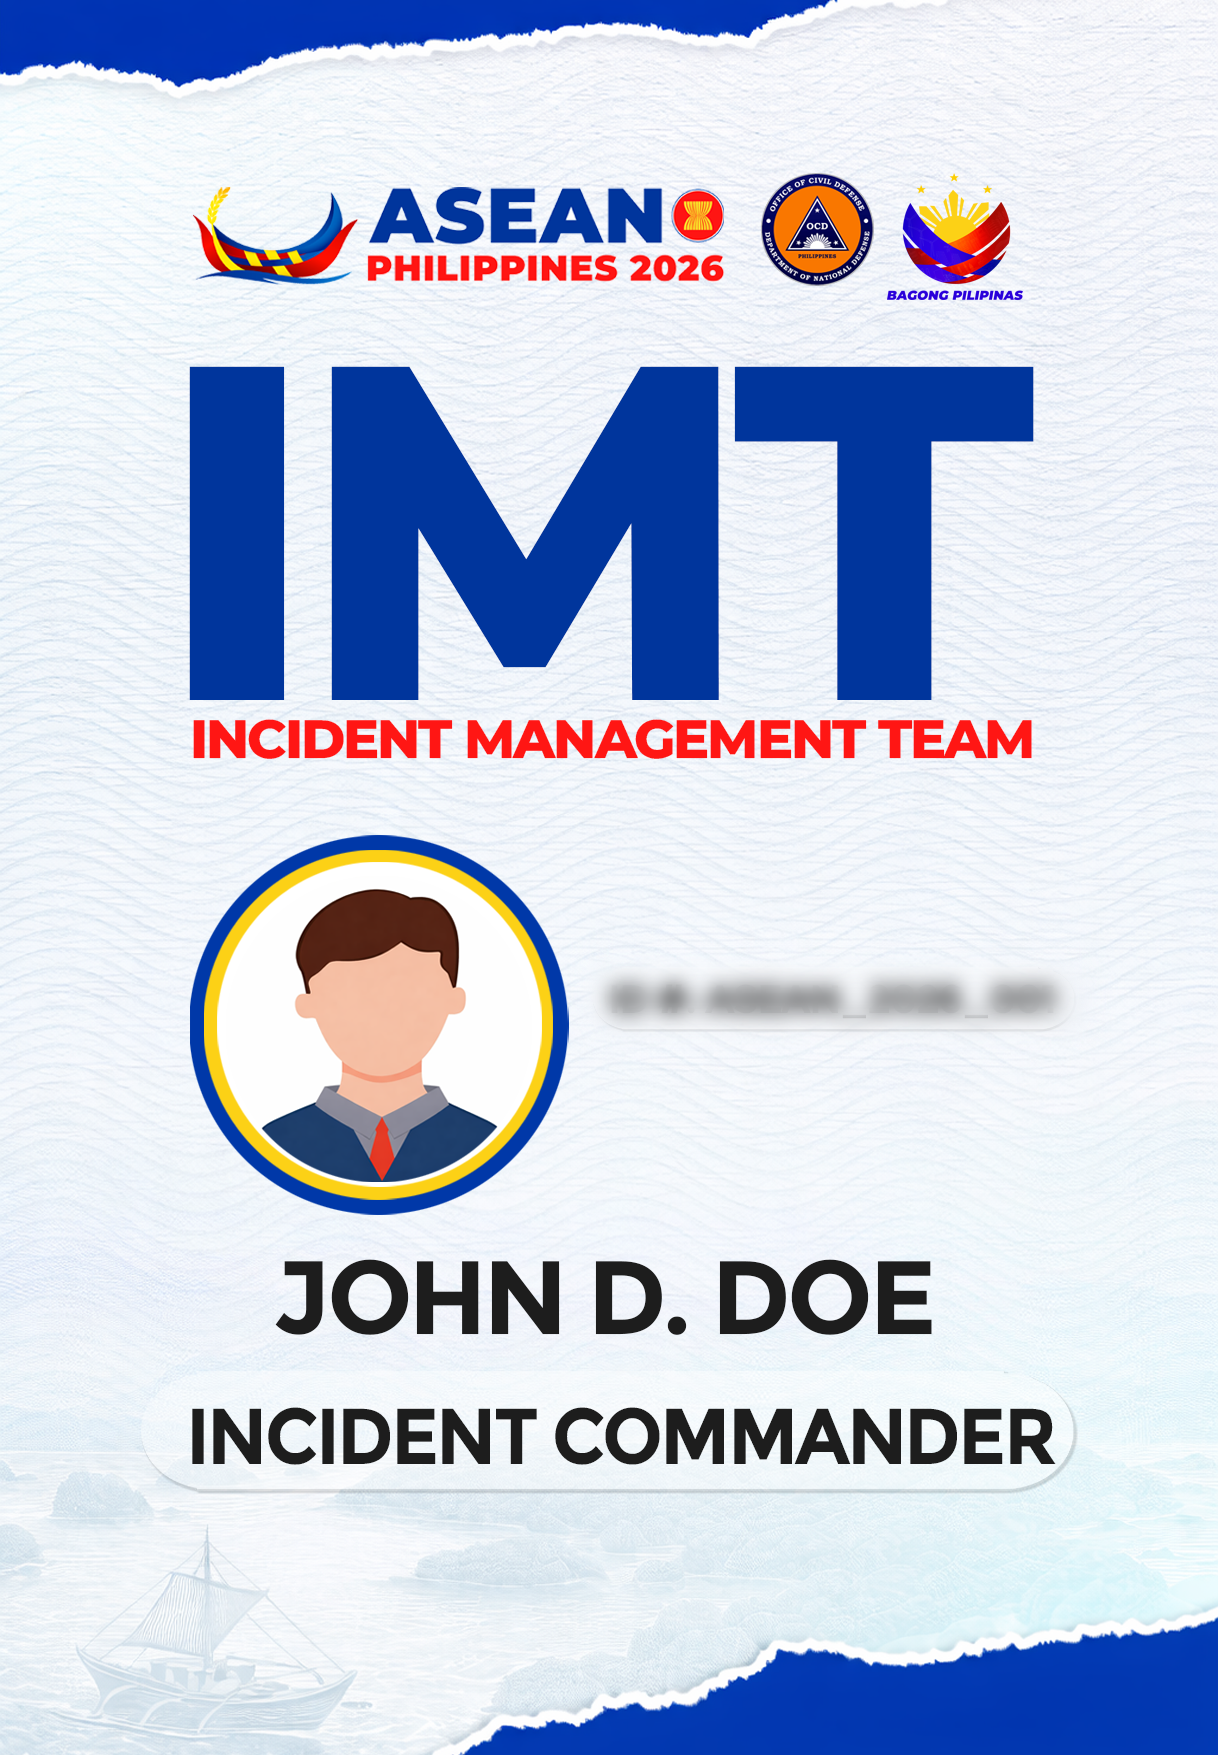
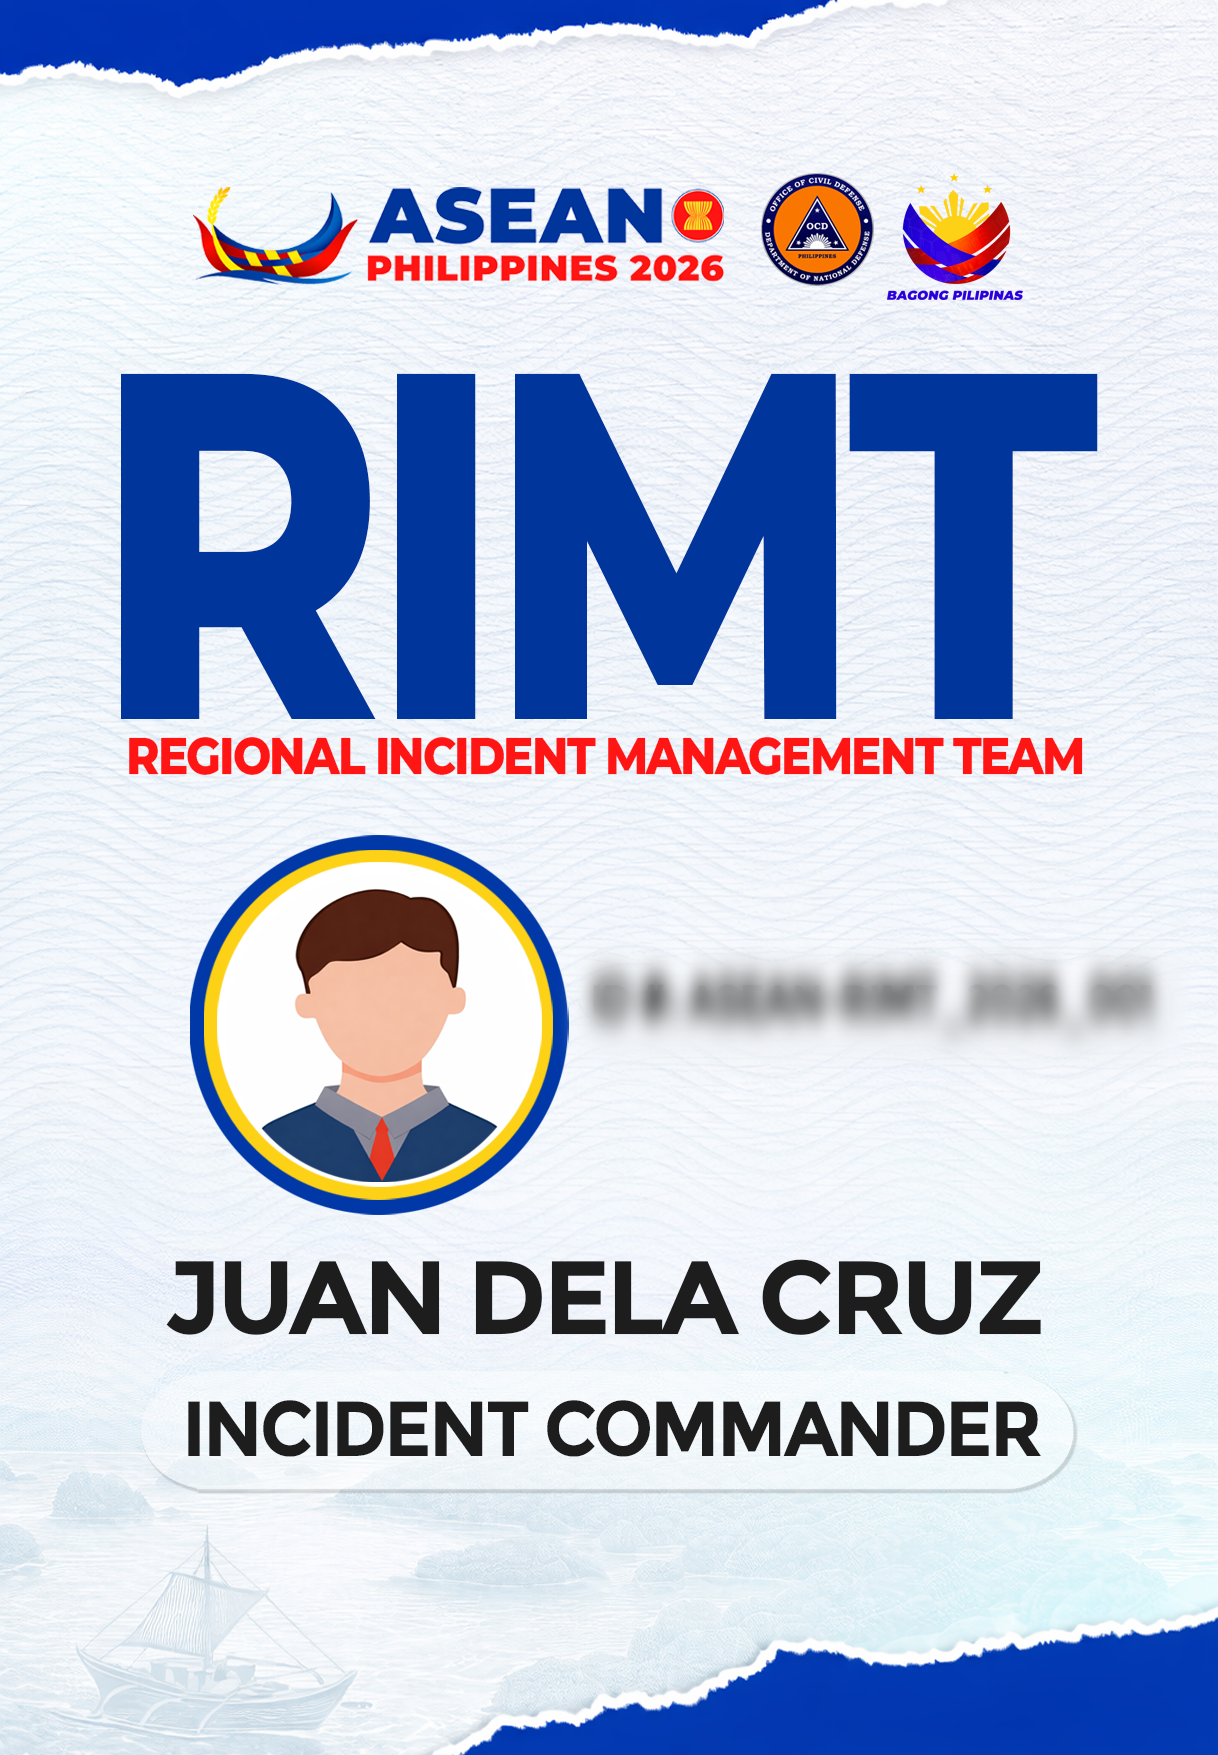
revised id imt to rimt

diff --git a/stg-e-id-database.html b/stg-e-id-database.html
@@ -356,7 +356,7 @@ display: flex;
           </thead>
           <tbody>
             <tr>
-              <td>ASEAN-STG_2026_001</td>
+              <td>####_###_##</td>
               <td>AQUILINO P. DUCAY</td>
               <td>OCD MIMAROPA</td>
               <td>
